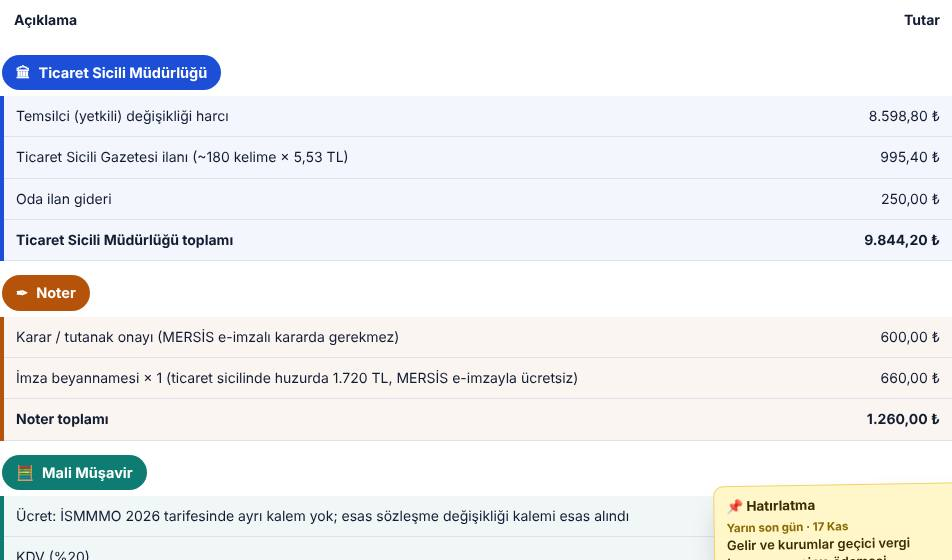
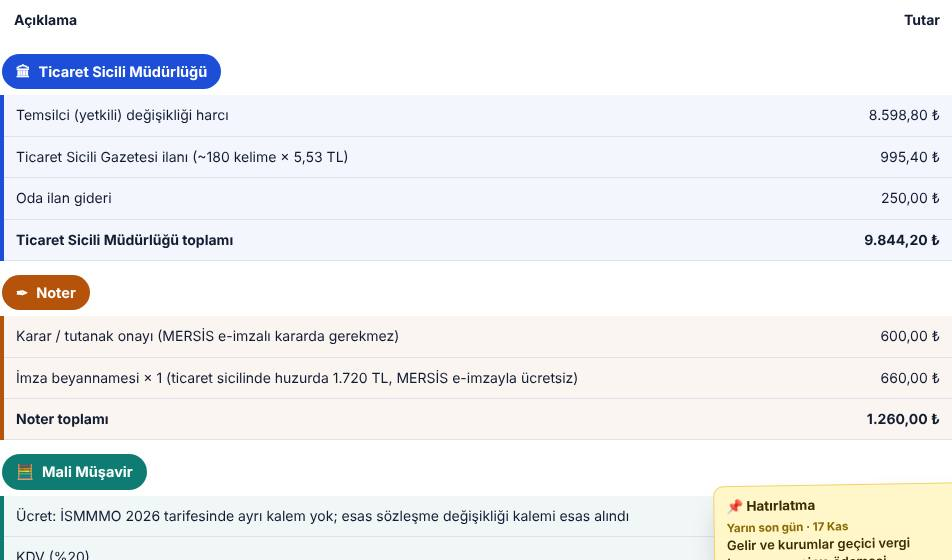
Şirket işlemi sihirbazı: ticaret sicili dilekçesi düğmesi ve oda dilekçesi notu
Claude-Session: https://claude.ai/code/session_018UFAVAkLcBcEWp4f4jsZc1

diff --git a/site/index.html b/site/index.html
@@ -4289,7 +4289,7 @@ var DOCSHELL=gshell($('#docs'),DOCS,renderDoc,null);
    h+='<div class="dz-links"><a class="btn-g" href="#belgeler">Belge örnekleri →</a></div></div></article>';W.innerHTML=h;save();
    ['kel','imz','sm','onay'].forEach(function(x){var e=document.getElementById('ss-'+x);if(e)e.addEventListener(e.tagName==='SELECT'?'change':'input',function(){inp[x]=e.value;document.getElementById('ss-out').innerHTML=ucretHtml(ucret(plan2()));});});return;}
   if(P.uy.length)h+='<div class="ss-uy">'+P.uy.map(function(x){return '<p>⚠ '+esc2(x)+'</p>';}).join('')+'</div>';
-  h+='<h5 class="ak-h">1. Karar ve dilekçe</h5><div class="dz-links">'+P.k.map(function(x,j){var K=KM[x];return K?'<a class="'+(j?'btn-g':'btn-p')+'" href="#d-k-'+x+'">'+esc2(K.t.replace(/^[^:]*:\s*/,''))+' kararını doldur →</a>':'';}).join('')+'</div><p class="pnote">Karar şablonu açılır; şirket bilgilerini, kişileri ve tarihleri yazıp yazdırın ya da Word olarak indirin. Tescil başvuru dilekçesi MERSİS’te başvuru oluşturulurken kendiliğinden hazırlanır.</p>';
+  h+='<h5 class="ak-h">1. Karar ve dilekçe</h5><div class="dz-links">'+P.k.map(function(x,j){var K=KM[x];return K?'<a class="'+(j?'btn-g':'btn-p')+'" href="#d-k-'+x+'">'+esc2(K.t.replace(/^[^:]*:\s*/,''))+' kararını doldur →</a>':'';}).join('')+'<a class="btn-g" href="#d-tsgenel">Ticaret sicili dilekçesini doldur →</a></div><p class="pnote">Karar şablonu açılır; şirket bilgilerini, kişileri ve tarihleri yazıp yazdırın ya da Word olarak indirin. Tescil başvuru dilekçesi çoğu müdürlükte MERSİS’te başvuru oluşturulurken kendiliğinden hazırlanır; müdürlük ayrıca imzalı dilekçe isterse “Ticaret sicili dilekçesini doldur” düğmesiyle hazırlayabilirsiniz. Bazı illerde ticaret odasına ayrı dilekçe de istenir; başvurudan önce kendi müdürlüğünüzün ve odanızın sayfasına bakmanız yerinde olur.</p>';
   h+='<h5 class="ak-h">2. Adım adım yapılacaklar</h5><ol class="dz-steps">'+P.adim.map(function(x){return '<li><span>'+esc2(x)+'</span></li>';}).join('')+'</ol>'+resLinks(P.adim.join(' ')+' '+(st.is||''));
   var bel=[];P.k.forEach(function(x){(KM[x]&&KM[x].e||[]).forEach(function(b){if(bel.indexOf(b)<0)bel.push(b);});});
   if(bel.length)h+='<h5 class="ak-h">3. Ticaret siciline verilecek belgeler</h5><ul class="ak-ul">'+bel.map(function(b){return '<li>'+esc2(b)+'</li>';}).join('')+'</ul>';
@@ -6238,7 +6238,7 @@ window.ekYuzMsg=function(K){var Y=K.map(function(k){return num(k.yuz);}),any=Y.s
   ozluk:{t:'Özlük dosyası sihirbazı nasıl kullanılır?',s:[['steps','Adım adım ilerleyin','Dört adım var; her ekranda kutuları doldurup “Sonraki adım”a basın. Numaralı adımlara basarak da geçebilirsiniz.'],['kimlik','1–2. İşyeri ve çalışan','İşyeri ile çalışanın bilgilerini bir kez yazın; seçtiğiniz bütün formlara kendiliğinden gelir.'],['tur','3. Formları seçin','“İşe giriş paketi” düğmesi en sık gerekenleri seçer; görevlendirme, değişiklik bildirimi gibi formları ayrıca işaretleyin.'],['bitti','4. Form bilgileri ve sonuç','Her formun kendine özel kutularını doldurun. Sonuçta formlar tek dosyada indirilir, yazdırılır ya da paylaşılır; istediğinizi tek tek de alabilirsiniz.']]},
   arackdv:{t:'Araç KDV oranı nasıl bulunur?',s:[['arac','1. Aracı seçin','Binek, kamyonet, iş makinesi gibi aracın türünü seçin.'],['steps','2. Soruları yanıtlayın','İkinci el mi, satıcı galeri mi gibi sorular gelir.'],['bitti','3. Sonuç','KDV oranı, dayanağı, alıcının indirimi ve muhasebe kaydı açılır.']]}
  };
- var SH={esas:['esas-0','esas-0','esas-1','esas-2','esas-2',null,'esas-3','esas-4','esas-6',null],ortaklik:['or-0','or-0','or-1',null,'or-2','or-4',null],sirket:['sk-0','sk-1','sk-2','sk-3',null],gecbeyan:['gb-0','gb-1',null],arackdv:['ak-0','ak-1',null]},VER='202611160931';
+ var SH={esas:['esas-0','esas-0','esas-1','esas-2','esas-2',null,'esas-3','esas-4','esas-6',null],ortaklik:['or-0','or-0','or-1',null,'or-2','or-4',null],sirket:['sk-0','sk-1','sk-2','sk-3',null],gecbeyan:['gb-0','gb-1',null],arackdv:['ak-0','ak-1',null]},VER='202611161025';
  var MAP={ozluk:'ozluk',sirket:'sirket',amackonu:'esas',ortaklik:'ortaklik',gecbeyan:'gecbeyan',arackdv:'arackdv'};
  function open(key){var h=H[key];if(!h)return;var m=document.getElementById('hlp-modal');if(!m){m=document.createElement('div');m.id='hlp-modal';m.setAttribute('role','dialog');m.setAttribute('aria-modal','true');document.body.appendChild(m);
      m.addEventListener('click',function(e){if(e.target===m||e.target.closest('[data-hx]')){m.hidden=true;document.documentElement.style.overflow='';}});document.addEventListener('keydown',function(e){if(e.key==='Escape'&&!m.hidden){m.hidden=true;document.documentElement.style.overflow='';}});}
